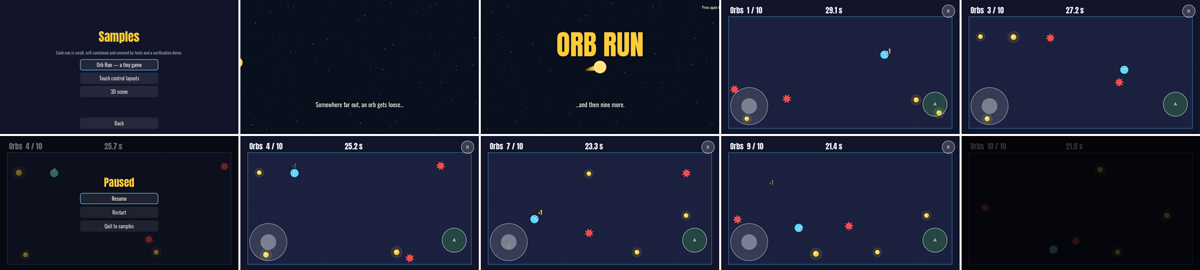
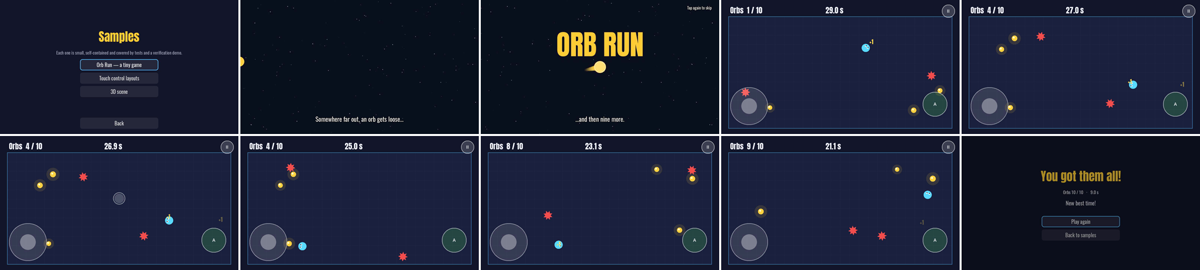
Remove orphaned .uid files left by experiments, refresh README sheet and APK timing
Claude-Session: https://claude.ai/code/session_01Cvm3m2Au4XCde6NhbSTddv

diff --git a/README.md b/README.md
@@ -115,7 +115,7 @@ Details: [docs/verification.md](docs/verification.md).
 
 | Way | How |
 |---|---|
-| Ask Claude | "Build me an APK." Claude pushes a commit with `[apk]` in the message, and GitHub posts a Release with a download link in about 5 minutes. |
+| Ask Claude | "Build me an APK." Claude pushes a commit with `[apk]` in the message, and GitHub posts a Release with a download link, about 2 minutes later. |
 | Merge a PR into `main` | Automatic. |
 | By hand | Actions → *Android APK* → *Run workflow*. |
 | No CI available | Claude runs `tools/android_build.sh --publish` in the session and sends a link. |
